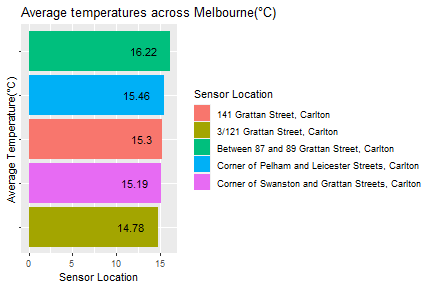
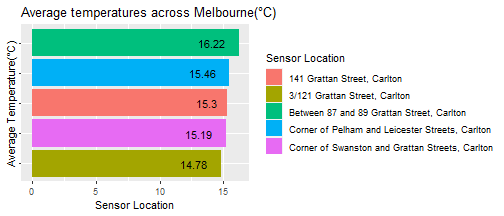
final settings to the plot size

diff --git a/mu-presentation.html b/mu-presentation.html
@@ -107,8 +107,8 @@ class:inverse
 
 # Location of the Sensors
 
-<div id="htmlwidget-352ffb27f6bc0b77bbc5" style="width:500px;height:200px;" class="leaflet html-widget"></div>
-<script type="application/json" data-for="htmlwidget-352ffb27f6bc0b77bbc5">{"x":{"options":{"crs":{"crsClass":"L.CRS.EPSG3857","code":null,"proj4def":null,"projectedBounds":null,"options":{}}},"calls":[{"method":"addTiles","args":["//{s}.tile.openstreetmap.org/{z}/{x}/{y}.png",null,null,{"minZoom":0,"maxZoom":18,"tileSize":256,"subdomains":"abc","errorTileUrl":"","tms":false,"noWrap":false,"zoomOffset":0,"zoomReverse":false,"opacity":1,"zIndex":1,"detectRetina":false,"attribution":"&copy; <a href=\"http://openstreetmap.org\">OpenStreetMap<\/a> contributors, <a href=\"http://creativecommons.org/licenses/by-sa/2.0/\">CC-BY-SA<\/a>"}]},{"method":"addAwesomeMarkers","args":[[-37.800575,-37.8023,-37.800524,-37.800793,-37.800629],[144.964635,144.960923,144.964122,144.966492,144.965052],{"icon":"cloud","markerColor":"yellow","iconColor":"white","spin":false,"squareMarker":false,"iconRotate":0,"font":"monospace","prefix":"fa"},null,null,{"interactive":true,"draggable":false,"keyboard":true,"title":"","alt":"","zIndexOffset":0,"opacity":1,"riseOnHover":false,"riseOffset":250},["Location: 141 Grattan Street, Carlton <br> Average Temperature: 15.3","Location: 3/121 Grattan Street, Carlton <br> Average Temperature: 14.78","Location: Between 87 and 89 Grattan Street, Carlton <br> Average Temperature: 16.22","Location: Corner of Pelham and Leicester Streets, Carlton <br> Average Temperature: 15.46","Location: Corner of Swanston and Grattan Streets, Carlton <br> Average Temperature: 15.19"],null,null,null,null,{"interactive":false,"permanent":false,"direction":"auto","opacity":1,"offset":[0,0],"textsize":"10px","textOnly":false,"className":"","sticky":true},null]}],"limits":{"lat":[-37.8023,-37.800524],"lng":[144.960923,144.966492]}},"evals":[],"jsHooks":[]}</script>
+<div id="htmlwidget-edefd5008e026d7d41c3" style="width:500px;height:200px;" class="leaflet html-widget"></div>
+<script type="application/json" data-for="htmlwidget-edefd5008e026d7d41c3">{"x":{"options":{"crs":{"crsClass":"L.CRS.EPSG3857","code":null,"proj4def":null,"projectedBounds":null,"options":{}}},"calls":[{"method":"addTiles","args":["//{s}.tile.openstreetmap.org/{z}/{x}/{y}.png",null,null,{"minZoom":0,"maxZoom":18,"tileSize":256,"subdomains":"abc","errorTileUrl":"","tms":false,"noWrap":false,"zoomOffset":0,"zoomReverse":false,"opacity":1,"zIndex":1,"detectRetina":false,"attribution":"&copy; <a href=\"http://openstreetmap.org\">OpenStreetMap<\/a> contributors, <a href=\"http://creativecommons.org/licenses/by-sa/2.0/\">CC-BY-SA<\/a>"}]},{"method":"addAwesomeMarkers","args":[[-37.800575,-37.8023,-37.800524,-37.800793,-37.800629],[144.964635,144.960923,144.964122,144.966492,144.965052],{"icon":"cloud","markerColor":"yellow","iconColor":"white","spin":false,"squareMarker":false,"iconRotate":0,"font":"monospace","prefix":"fa"},null,null,{"interactive":true,"draggable":false,"keyboard":true,"title":"","alt":"","zIndexOffset":0,"opacity":1,"riseOnHover":false,"riseOffset":250},["Location: 141 Grattan Street, Carlton <br> Average Temperature: 15.3","Location: 3/121 Grattan Street, Carlton <br> Average Temperature: 14.78","Location: Between 87 and 89 Grattan Street, Carlton <br> Average Temperature: 16.22","Location: Corner of Pelham and Leicester Streets, Carlton <br> Average Temperature: 15.46","Location: Corner of Swanston and Grattan Streets, Carlton <br> Average Temperature: 15.19"],null,null,null,null,{"interactive":false,"permanent":false,"direction":"auto","opacity":1,"offset":[0,0],"textsize":"10px","textOnly":false,"className":"","sticky":true},null]}],"limits":{"lat":[-37.8023,-37.800524],"lng":[144.960923,144.966492]}},"evals":[],"jsHooks":[]}</script>
 
 - It is evident from the map that the sensors are located very close to each other/close in proximity. The maximum temperature at the Corner of Swanston and Grattan Streets, Carlton is very close to other places but the temperature varies quite significantly keeping in mind how close they are on the same street.
 
